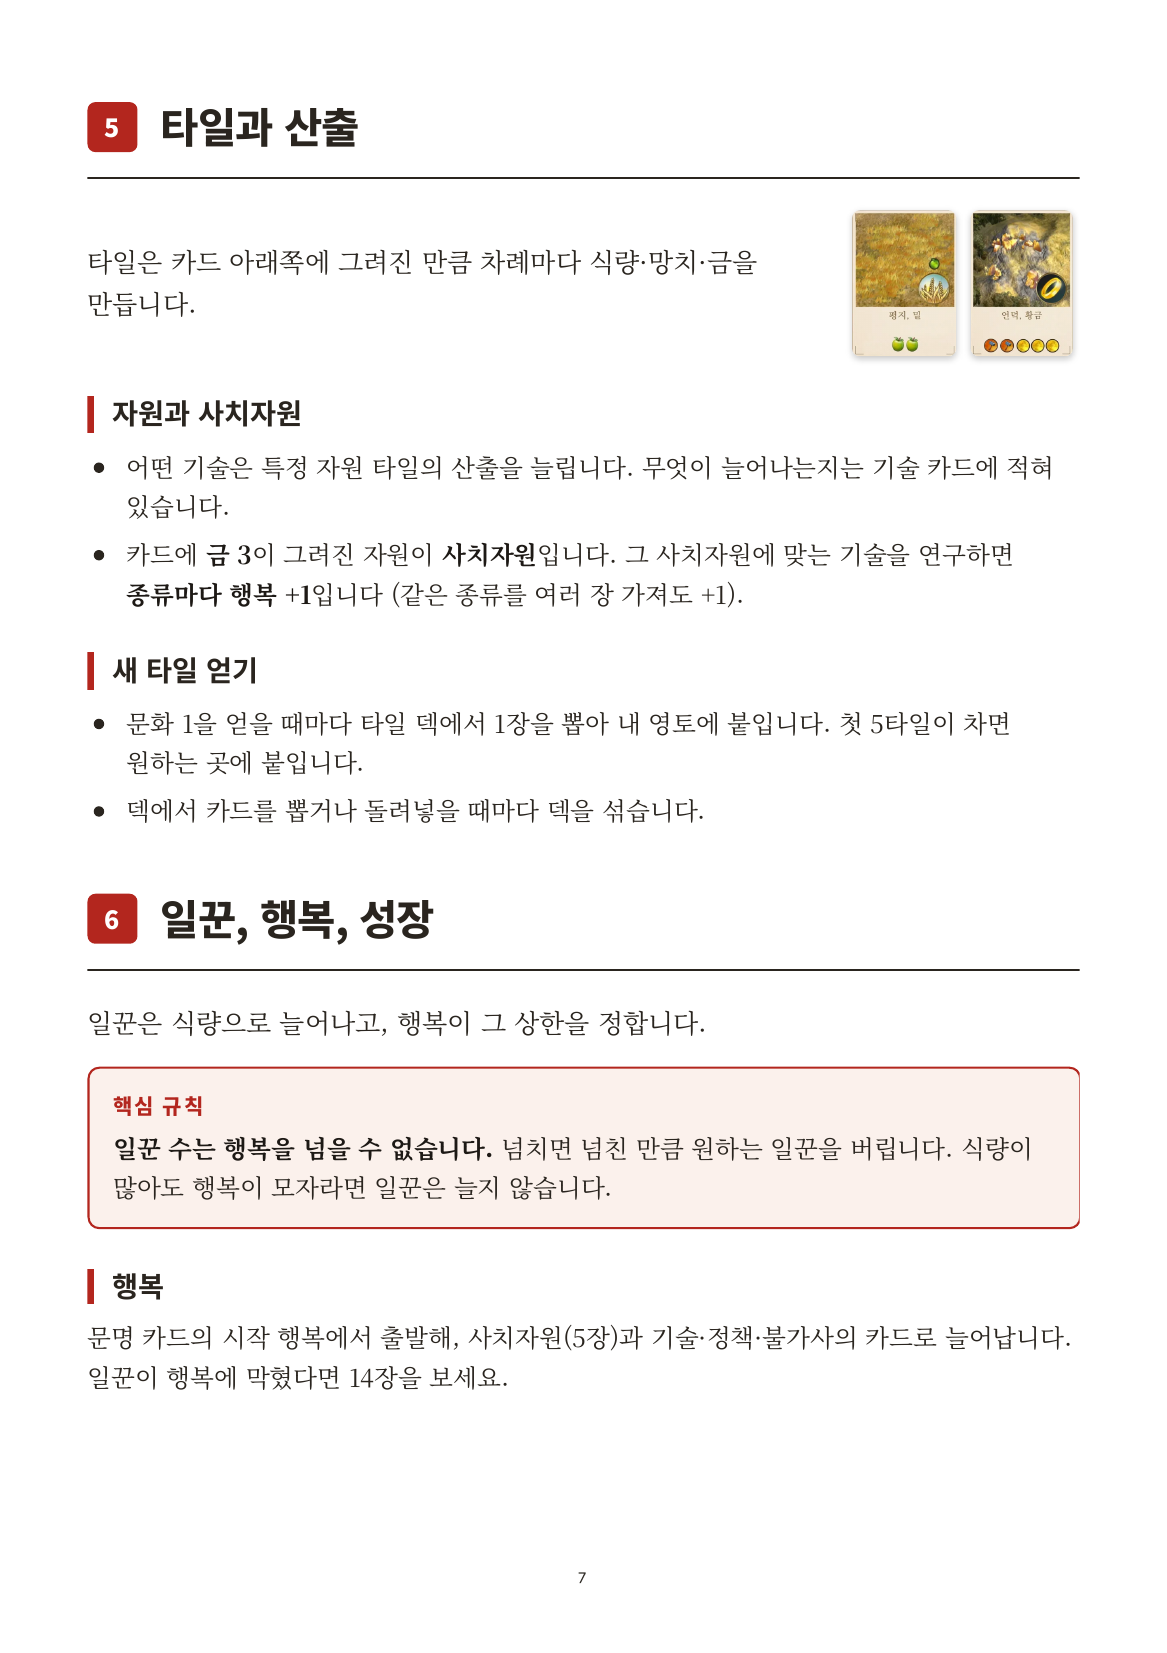
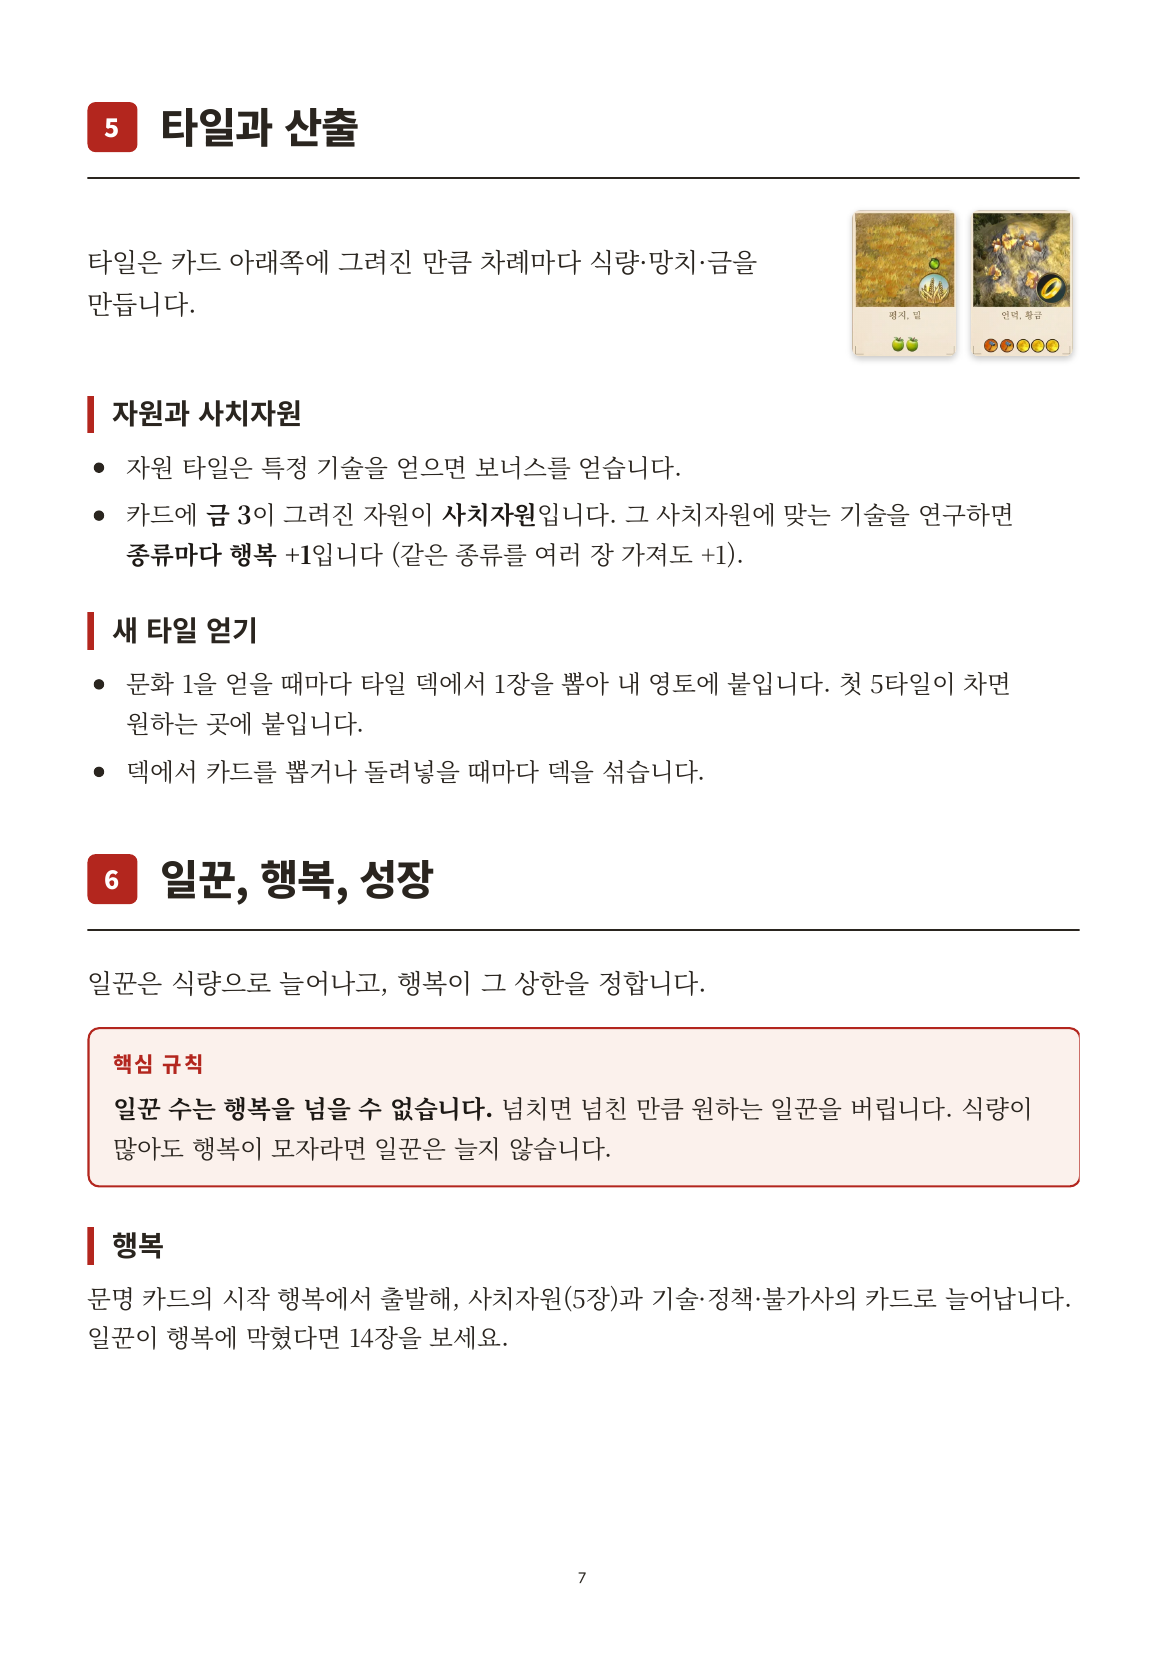
규칙서 자원 설명 짧게: '자원 타일은 특정 기술을 얻으면 보너스를 얻습니다'
Claude-Session: https://claude.ai/code/session_01LEwiRiXRJPjckZxHM1aEbm

diff --git a/docs/rulebook/source/part1.html b/docs/rulebook/source/part1.html
@@ -207,7 +207,7 @@
 
   <h3>자원과 사치자원</h3>
   <ul>
-    <li>어떤 기술은 특정 자원 타일의 산출을 늘립니다. 무엇이 늘어나는지는 기술 카드에 적혀 있습니다.</li>
+    <li>자원 타일은 특정 기술을 얻으면 보너스를 얻습니다.</li>
     <li>카드에 <b>금 3</b>이 그려진 자원이 <b>사치자원</b>입니다. 그 사치자원에 맞는 기술을 연구하면 <b>종류마다 행복 +1</b>입니다 (같은 종류를 여러 장 가져도 +1).</li>
   </ul>
 
